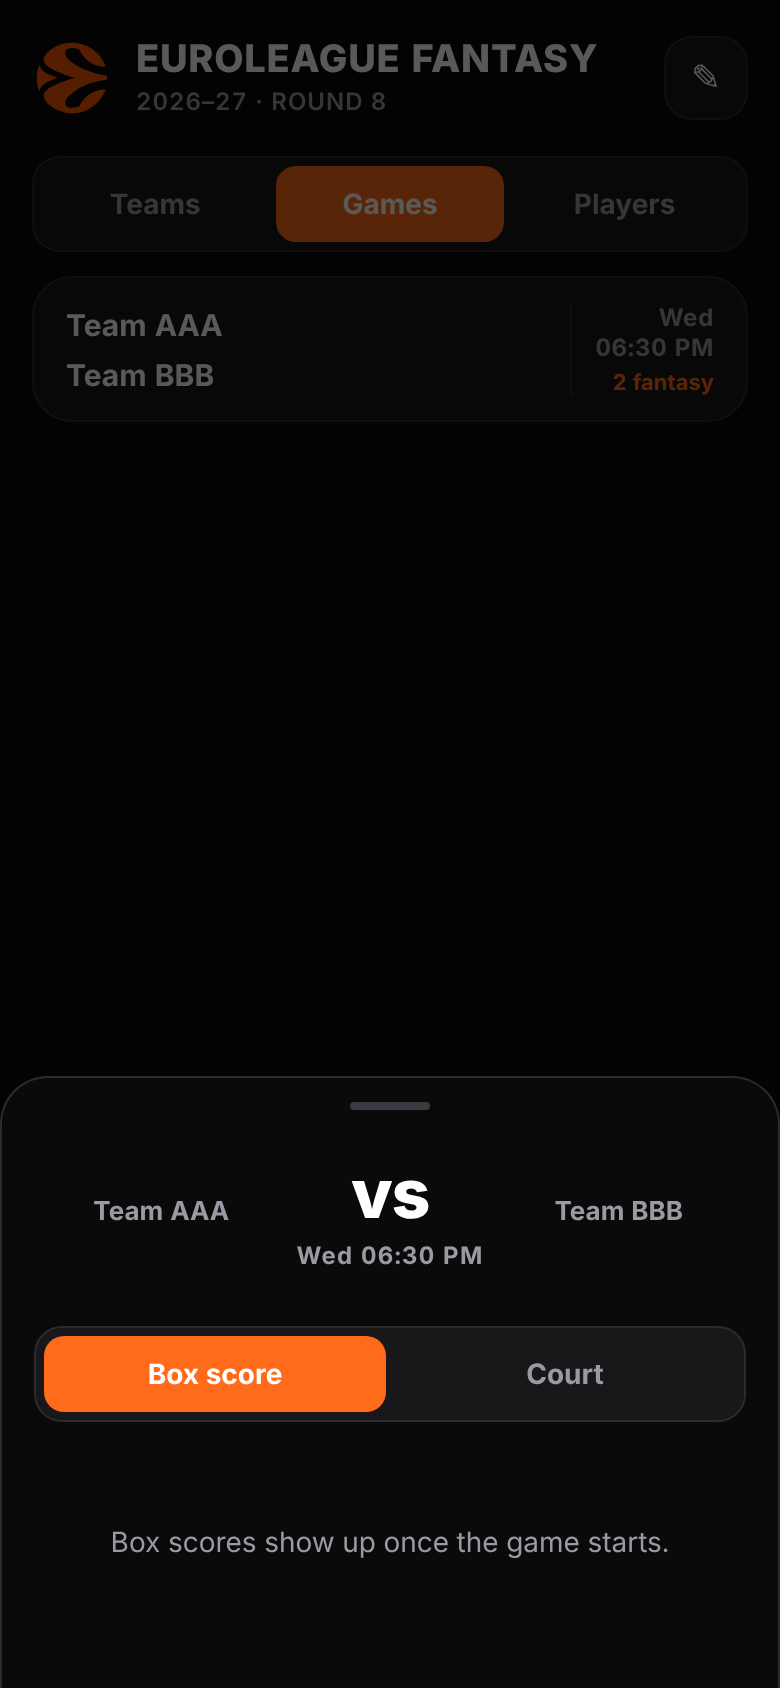
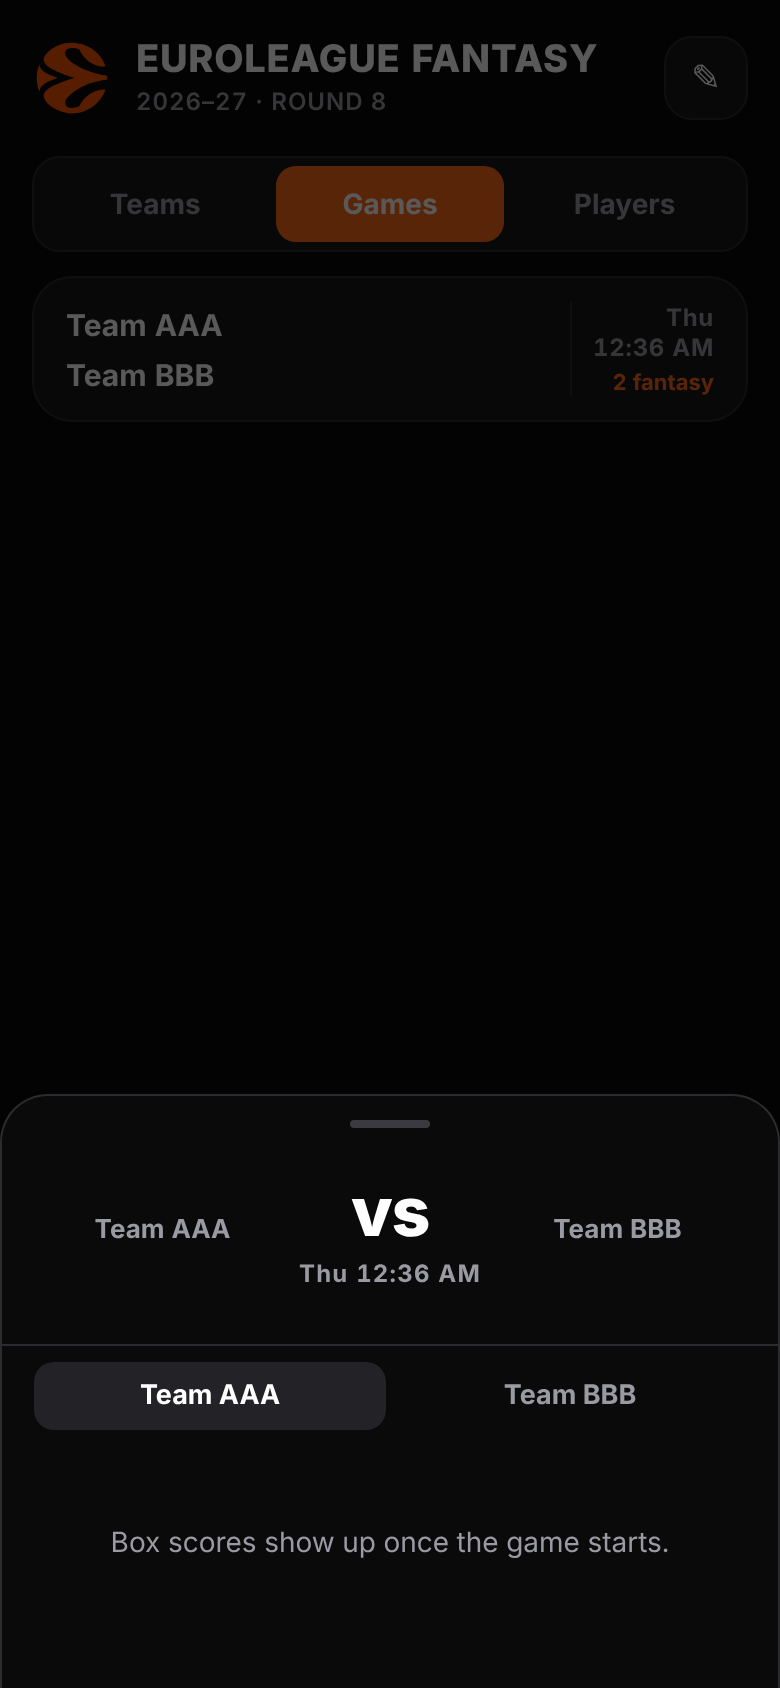
Feedback: 'Give Feedback' under the watch team opens a sheet (field focused, keyboard up) with everyone's anonymous feedback below; /admin lets the admin mark items complete (password checked by the Worker, stored only as a salted PBKDF2 hash in D1). Also removes stray test screenshots from the repo
Claude-Session: https://claude.ai/code/session_01WCgTGHKt1oMupKVau6VETb

diff --git a/1-league.html b/1-league.html
@@ -121,6 +121,35 @@
   .watch{display:block;margin-top:10px;border-style:dashed;color:inherit;text-decoration:none}
   .watch .rank{color:var(--muted);display:grid;place-items:center}
   .watch .score{font-size:18px;color:var(--muted)}
+  .fb-btn{width:100%;text-align:left;font:inherit;color:inherit;cursor:pointer;padding:0;border-style:solid}
+  /* feedback sheet */
+  #fbWrap .scrim{position:fixed;inset:0;background:#000000A6;opacity:0;pointer-events:none;transition:.2s;z-index:10}
+  #fbWrap .sheet{position:fixed;left:50%;bottom:0;transform:translate(-50%,100%);width:100%;max-width:480px;background:var(--bg);border:1px solid var(--line);border-bottom:0;
+         border-radius:24px 24px 0 0;display:flex;flex-direction:column;height:calc(100vh - env(safe-area-inset-top) - 16px);height:calc(100dvh - env(safe-area-inset-top) - 16px);
+         transition:transform .25s ease,visibility .25s;visibility:hidden;z-index:11;overflow:hidden}
+  #fbWrap.open .scrim{opacity:1;pointer-events:auto}
+  #fbWrap.open .sheet{transform:translate(-50%,0);visibility:visible;transition:transform .25s ease,visibility 0s}   /* visible at once so the field can take focus in the same tap */
+  #fbWrap .sheet.dragging{transition:none}
+  #fbWrap .grab{flex:none;height:28px;display:grid;place-items:center;cursor:grab;touch-action:none}
+  #fbWrap .grab::before{content:"";width:40px;height:4px;background:#3A3A40;border-radius:4px}
+  #fbWrap .sh-head{flex:none;padding:0 16px 14px;border-bottom:1px solid var(--line);touch-action:none}
+  #fbWrap .sh-head b{display:block;font-size:20px;font-weight:800}
+  #fbWrap .sh-head small{display:block;color:var(--muted);font-size:12.5px;margin-top:2px}
+  #fbWrap .fb-form{margin-top:12px}
+  #fbWrap textarea{display:block;width:100%;min-height:96px;max-height:200px;resize:none;border:1.5px solid var(--line);border-radius:14px;background:var(--card);color:#fff;
+         font:400 16px/1.4 Inter,system-ui,sans-serif;padding:12px 14px;outline:none}
+  #fbWrap textarea:focus{border-color:var(--orange)}
+  #fbWrap .fb-row{display:flex;align-items:center;justify-content:space-between;gap:10px;margin-top:8px}
+  #fbWrap .fb-row small{margin:0;color:var(--dim)}
+  #fbWrap .fb-send{height:40px;padding:0 18px;border:0;border-radius:12px;background:var(--orange);color:#fff;font:700 14.5px Inter,system-ui,sans-serif;cursor:pointer}
+  #fbWrap .fb-send:disabled{opacity:.4;cursor:default}
+  #fbWrap .sh-body{flex:1 1 auto;min-height:0;overflow-y:auto;overscroll-behavior:contain;-webkit-overflow-scrolling:touch;padding:4px 16px calc(24px + env(safe-area-inset-bottom))}
+  #fbWrap .fb{padding:13px 2px;border-bottom:1px solid var(--line)}
+  #fbWrap .fb p{font-size:14.5px;line-height:1.45;white-space:pre-wrap;overflow-wrap:anywhere}
+  #fbWrap .fb small{display:flex;align-items:center;gap:8px;margin-top:5px;font-size:12px;color:var(--dim)}
+  #fbWrap .fb .ok{font-weight:800;font-size:10.5px;letter-spacing:.06em;color:var(--win);background:#123B2A;border-radius:6px;padding:2px 6px}
+  #fbWrap .fb.done p{color:var(--muted);text-decoration:line-through;text-decoration-color:#FFFFFF40}
+  #fbWrap .fb-empty{color:var(--muted);text-align:center;padding:36px 10px;font-size:14px}
   .sec-t{font-size:12px;font-weight:800;letter-spacing:.14em;color:var(--muted);margin:26px 4px 10px}
   .base-input{width:104px;height:42px;border:1.5px solid var(--line);border-radius:12px;background:var(--card-2);color:#fff;
               font:800 18px Inter,system-ui,sans-serif;padding:0 12px;text-align:right;flex:none}
@@ -176,6 +205,14 @@ document.addEventListener("touchmove", e => { if (e.touches.length > 1) e.preven
       <div class="score" id="watchVal"><span class="chev">›</span></div>
     </div>
   </a>
+  <!-- feedback: anonymous notes from everyone; the admin marks them complete on /admin -->
+  <button class="list watch fb-btn" id="fbBtn" type="button">
+    <div class="row">
+      <div class="rank"><svg width="18" height="18" viewBox="0 0 24 24" fill="none" stroke="currentColor" stroke-width="2" stroke-linecap="round" stroke-linejoin="round"><path d="M21 15a2 2 0 0 1-2 2H7l-4 4V5a2 2 0 0 1 2-2h14a2 2 0 0 1 2 2z"/></svg></div>
+      <div class="who"><b>Give Feedback</b><small id="fbSub">Ideas, bugs, wishes · seen by everyone</small></div>
+      <div class="score"><span class="chev">›</span></div>
+    </div>
+  </button>
   </div>
 
   <!-- Games: this round's games (Game Center); tap one to open it -->
@@ -200,6 +237,20 @@ document.addEventListener("touchmove", e => { if (e.touches.length > 1) e.preven
   </div>
 </div>
 
+<div id="fbWrap">
+  <div class="scrim" data-fbclose></div>
+  <div class="sheet" role="dialog" aria-label="Give feedback">
+    <div class="grab" aria-hidden="true"></div>
+    <div class="sh-head">
+      <b>Feedback</b><small>Anonymous · everyone sees the list</small>
+      <form class="fb-form" id="fbForm">
+        <textarea id="fbText" maxlength="1000" placeholder="What should be better, fixed or added?" aria-label="Your feedback"></textarea>
+        <div class="fb-row"><small id="fbNote"></small><button class="fb-send" id="fbSend" type="submit" disabled>Send</button></div>
+      </form>
+    </div>
+    <div class="sh-body" id="fbList"></div>
+  </div>
+</div>
 <script src="assets/demo.js"></script>
 <script src="assets/sync.js"></script>
 <script src="assets/data.js"></script>
@@ -471,6 +522,56 @@ function openPlayer(code){
 $("#topTeam").addEventListener("change", e => { store.set("elf.topClub", e.target.value); e.target.blur(); renderTop(); });   // let go of focus so the next tap opens it again (iPhone)
 $("#topList").addEventListener("click", e => { const r = e.target.closest("[data-code]"); if (r) openPlayer(r.dataset.code); });
 $("#topList").addEventListener("keydown", e => { const r = e.target.closest("[data-code]"); if (r && (e.key === "Enter" || e.key === " ")){ e.preventDefault(); openPlayer(r.dataset.code); } });
+
+/* ───────── feedback sheet: write at the top (keyboard opens right away), everyone's past feedback below ───────── */
+const fbWrap = $("#fbWrap"), fbText = $("#fbText"), fbSend = $("#fbSend");
+let fbItems = null;
+const fbAgo = t => { const m = Math.round((Date.now() - t) / 60e3); return m < 1 ? "just now" : m < 60 ? `${m} min ago` : m < 48 * 60 ? `${Math.round(m / 60)} h ago` : new Date(t).toLocaleDateString("en-GB", {day: "numeric", month: "short", year: "numeric"}); };
+function renderFb(){
+  const l = $("#fbList");
+  if (!fbItems){ l.innerHTML = `<div class="fb-empty">Loading…</div>`; return; }
+  l.innerHTML = fbItems.length ? fbItems.map(f => `<div class="fb${f.done ? " done" : ""}"><p>${esc(f.text)}</p>
+      <small>${f.done ? `<span class="ok">COMPLETED</span>` : ""}${esc(fbAgo(f.at))}</small></div>`).join("")
+    : `<div class="fb-empty">No feedback yet — be the first.</div>`;
+}
+async function loadFb(){
+  try{ const r = await fetch("/api/feedback", {cache: "no-store"}); if (r.ok){ fbItems = (await r.json()).items || []; renderFb(); return; } }catch{}
+  if (!fbItems) $("#fbList").innerHTML = `<div class="fb-empty">Couldn't load feedback right now.</div>`;
+}
+function openFb(){
+  fbWrap.classList.add("open");
+  void fbWrap.offsetHeight;                         // apply "open" now…
+  fbText.focus({preventScroll: true});              // in the same tap, so the iPhone keyboard comes up
+  $("#fbList").scrollTop = 0; renderFb(); loadFb();
+}
+function closeFb(){ fbText.blur(); fbWrap.classList.remove("open"); }
+$("#fbBtn").addEventListener("click", openFb);
+fbWrap.querySelector("[data-fbclose]").onclick = closeFb;
+document.addEventListener("keydown", e => { if (e.key === "Escape" && fbWrap.classList.contains("open")) closeFb(); });
+fbText.addEventListener("input", () => { fbSend.disabled = !fbText.value.trim(); $("#fbNote").textContent = fbText.value.length > 800 ? `${1000 - fbText.value.length} left` : ""; });
+$("#fbForm").addEventListener("submit", async e => {
+  e.preventDefault();
+  const text = fbText.value.trim(); if (!text) return;
+  fbSend.disabled = true; $("#fbNote").textContent = "Sending…";
+  try{
+    const r = await fetch("/api/feedback", {method: "POST", headers: {"content-type": "application/json"}, body: JSON.stringify({text})});
+    if (!r.ok) throw 0;
+    const {item} = await r.json();
+    fbItems = [item, ...(fbItems || [])]; renderFb();
+    fbText.value = ""; $("#fbNote").textContent = "Thanks! Sent."; fbText.blur();
+  }catch{ $("#fbNote").textContent = "Couldn't send — try again."; fbSend.disabled = false; }
+});
+(function(){                                         // drag the grab bar down to close; swipe down on the list once it's at the top
+  const sh = fbWrap.querySelector(".sheet"), h = fbWrap.querySelector(".grab");
+  let y0 = 0, dy = 0, t0 = 0, id = null;
+  const end = () => { if (id == null) return; id = null; sh.classList.remove("dragging");
+    const fast = dy > 30 && dy / Math.max(1, Date.now() - t0) > 0.5; sh.style.transform = "";
+    if (dy > Math.min(140, sh.offsetHeight * 0.25) || fast) closeFb(); };
+  h.addEventListener("pointerdown", e => { id = e.pointerId; y0 = e.clientY; dy = 0; t0 = Date.now(); sh.classList.add("dragging"); h.setPointerCapture(id); });
+  h.addEventListener("pointermove", e => { if (e.pointerId !== id) return; dy = Math.max(0, e.clientY - y0); sh.style.transform = `translate(-50%, ${dy}px)`; });
+  h.addEventListener("pointerup", end); h.addEventListener("pointercancel", end);
+  SheetDrag.attach(sh, closeFb);
+})();
 
 /* ───────── refresh loop ───────── */
 function relevantGames(){

diff --git a/admin.html b/admin.html
@@ -1,0 +1,114 @@
+<!doctype html>
+<html lang="en">
+<head>
+<meta charset="utf-8">
+<meta name="viewport" content="width=device-width, initial-scale=1, maximum-scale=1, user-scalable=no, viewport-fit=cover">
+<meta name="robots" content="noindex, nofollow">
+<meta name="theme-color" content="#0A0A0B">
+<meta name="apple-mobile-web-app-capable" content="yes">
+<meta name="apple-mobile-web-app-status-bar-style" content="black-translucent">
+<link rel="apple-touch-icon" href="/assets/icon-180.png">
+<title>Feedback admin · EL Fantasy</title>
+<link rel="preconnect" href="https://fonts.googleapis.com">
+<link href="https://fonts.googleapis.com/css2?family=Inter:wght@400;500;600;700;800&display=swap" rel="stylesheet">
+<!-- Admin only: mark feedback complete. Not linked from the app; actions need the admin password (checked by the Worker). -->
+<style>
+  :root{--bg:#0A0A0B;--card:#18181B;--card-2:#232327;--line:#2B2B30;--muted:#9A9AA3;--dim:#5E5E66;--orange:#FF6B1A;--win:#3DDC84}
+  *{box-sizing:border-box;margin:0;padding:0;-webkit-tap-highlight-color:transparent}
+  html{touch-action:manipulation;-webkit-text-size-adjust:100%}
+  body{background:var(--bg);color:#fff;font:400 15px Inter,system-ui,sans-serif;min-height:100vh}
+  .wrap{max-width:480px;margin:0 auto;padding:calc(18px + env(safe-area-inset-top)) 16px calc(28px + env(safe-area-inset-bottom))}
+  header{display:flex;align-items:center;gap:12px;margin-bottom:16px}
+  header a{color:var(--muted);text-decoration:none;font-size:22px;width:36px;height:36px;display:grid;place-items:center;border-radius:12px;background:var(--card);border:1px solid var(--line)}
+  header h1{font-size:20px;font-weight:800;flex:1}
+  header button{border:0;background:none;color:var(--dim);font:600 13px Inter,system-ui,sans-serif;cursor:pointer}
+  .seg{display:flex;gap:4px;padding:4px;background:var(--card);border:1px solid var(--line);border-radius:14px;margin-bottom:12px}
+  .seg button{flex:1;height:36px;border:0;border-radius:10px;background:transparent;color:var(--muted);font:700 14px Inter,system-ui,sans-serif;cursor:pointer}
+  .seg button.on{background:var(--orange);color:#fff}
+  .list{background:var(--card);border:1px solid var(--line);border-radius:20px;overflow:hidden}
+  .fb{display:flex;gap:12px;align-items:flex-start;padding:14px 16px;border-top:1px solid var(--line)}
+  .fb:first-child{border-top:0}
+  .fb .t{flex:1;min-width:0}
+  .fb p{font-size:14.5px;line-height:1.45;white-space:pre-wrap;overflow-wrap:anywhere}
+  .fb small{display:block;margin-top:5px;font-size:12px;color:var(--dim)}
+  .fb.done p{color:var(--muted);text-decoration:line-through;text-decoration-color:#FFFFFF40}
+  .fb button{flex:none;height:34px;padding:0 12px;border-radius:10px;border:1px solid var(--line);background:var(--card-2);color:#fff;font:700 13px Inter,system-ui,sans-serif;cursor:pointer}
+  .fb button.mark{background:var(--win);border-color:var(--win);color:#06240F}
+  .fb button:disabled{opacity:.5}
+  .empty{padding:30px 16px;text-align:center;color:var(--muted)}
+  .login{background:var(--card);border:1px solid var(--line);border-radius:20px;padding:18px 16px}
+  .login p{color:var(--muted);font-size:13.5px;margin-bottom:12px}
+  .login input{width:100%;height:46px;border:1.5px solid var(--line);border-radius:12px;background:var(--card-2);color:#fff;font:500 16px Inter,system-ui,sans-serif;padding:0 14px;outline:none}
+  .login input:focus{border-color:var(--orange)}
+  .login button{width:100%;height:46px;margin-top:10px;border:0;border-radius:12px;background:var(--orange);color:#fff;font:700 15px Inter,system-ui,sans-serif;cursor:pointer}
+  .login .err{color:#FF5A4E;font-size:13px;margin-top:10px;min-height:18px}
+</style>
+<script>
+document.addEventListener("gesturestart", e => e.preventDefault(), {passive: false});
+</script>
+</head>
+<body>
+<div class="wrap">
+  <header><a href="/1-league" aria-label="Back to the app">‹</a><h1>Feedback admin</h1><button id="out" hidden>Log out</button></header>
+  <form class="login" id="login" hidden>
+    <p>Admin password — this phone remembers it after the first time.</p>
+    <input id="pw" type="password" autocomplete="current-password" placeholder="Password" aria-label="Password">
+    <button type="submit">Open</button>
+    <div class="err" id="err"></div>
+  </form>
+  <div id="main" hidden>
+    <div class="seg" id="seg"><button data-f="open" class="on">Open</button><button data-f="done">Completed</button><button data-f="all">All</button></div>
+    <div class="list" id="list"><div class="empty">Loading…</div></div>
+  </div>
+</div>
+<script>
+const $ = s => document.querySelector(s);
+const esc = s => String(s ?? "").replace(/[&<>"]/g, c => ({"&":"&amp;","<":"&lt;",">":"&gt;",'"':"&quot;"}[c]));
+const KEY = "elf.adminPw";
+const getPw = () => { try{ return localStorage.getItem(KEY) || ""; }catch{ return ""; } };
+const setPw = v => { try{ v ? localStorage.setItem(KEY, v) : localStorage.removeItem(KEY); }catch{} };
+let pw = getPw(), items = [], filter = "open";
+const when = t => new Date(t).toLocaleString("en-GB", {day: "numeric", month: "short", year: "numeric", hour: "2-digit", minute: "2-digit"});
+
+async function login(p){
+  const r = await fetch("/api/feedback/login", {method: "POST", headers: {"x-admin": p}});
+  return r.ok;
+}
+async function load(){
+  const r = await fetch("/api/feedback", {cache: "no-store"});
+  items = r.ok ? (await r.json()).items || [] : [];
+  render();
+}
+function render(){
+  document.querySelectorAll("#seg [data-f]").forEach(b => b.classList.toggle("on", b.dataset.f === filter));
+  const list = items.filter(f => filter === "all" || (filter === "done") === f.done);
+  $("#list").innerHTML = list.length ? list.map(f => `<div class="fb${f.done ? " done" : ""}">
+      <div class="t"><p>${esc(f.text)}</p><small>${esc(when(f.at))}${f.done && f.doneAt ? ` · completed ${esc(when(f.doneAt))}` : ""}</small></div>
+      <button data-id="${f.id}" data-done="${f.done ? 0 : 1}" class="${f.done ? "" : "mark"}">${f.done ? "Reopen" : "Complete"}</button></div>`).join("")
+    : `<div class="empty">${filter === "open" ? "Nothing open — all done." : filter === "done" ? "Nothing completed yet." : "No feedback yet."}</div>`;
+}
+function show(ok){
+  $("#login").hidden = ok; $("#main").hidden = !ok; $("#out").hidden = !ok;
+  if (ok) load(); else setTimeout(() => $("#pw").focus(), 50);
+}
+$("#login").addEventListener("submit", async e => {
+  e.preventDefault();
+  const p = $("#pw").value; if (!p) return;
+  $("#err").textContent = "";
+  if (await login(p)){ pw = p; setPw(p); $("#pw").value = ""; show(true); }
+  else $("#err").textContent = "Wrong password.";
+});
+$("#out").onclick = () => { pw = ""; setPw(""); show(false); };
+$("#seg").addEventListener("click", e => { const b = e.target.closest("[data-f]"); if (b){ filter = b.dataset.f; render(); } });
+$("#list").addEventListener("click", async e => {
+  const b = e.target.closest("button[data-id]"); if (!b) return;
+  b.disabled = true;
+  const r = await fetch("/api/feedback/done", {method: "POST", headers: {"content-type": "application/json", "x-admin": pw}, body: JSON.stringify({id: +b.dataset.id, done: b.dataset.done === "1"})});
+  if (r.status === 401){ pw = ""; setPw(""); show(false); $("#err").textContent = "Please log in again."; return; }
+  if (r.ok){ const f = items.find(x => x.id === +b.dataset.id); if (f){ f.done = b.dataset.done === "1"; f.doneAt = f.done ? Date.now() : null; } render(); }
+  else b.disabled = false;
+});
+(async () => { show(pw ? await login(pw).catch(() => false) : false); })();
+</script>
+</body>
+</html>

diff --git a/worker/feedback.js b/worker/feedback.js
@@ -1,0 +1,73 @@
+// Feedback: anyone can leave a note (anonymous); everyone sees the list; only the admin can mark items complete.
+//   GET  /api/feedback                 → {items: [{id, text, at, done, doneAt}]}   newest first
+//   POST /api/feedback        {text}   → add one (1–1000 characters)
+//   POST /api/feedback/done   {id, done}   header x-admin: <password>   → mark complete / reopen
+//   POST /api/feedback/login           header x-admin: <password>   → {ok} (the admin page checks the password)
+//   POST /api/feedback/setup  {password}   → sets the admin password, only while none is set yet
+// The admin password is never stored: only a random salt and a PBKDF2 hash of it, in the D1 kv table (not in the repo).
+const NO_CACHE = { "cache-control": "no-store" };
+const json = (d, status = 200) => new Response(JSON.stringify(d), { status, headers: { "content-type": "application/json", ...NO_CACHE } });
+
+let ready = false;
+async function setup(DB) {
+  if (ready) return;
+  await DB.batch([
+    DB.prepare("CREATE TABLE IF NOT EXISTS feedback (id INTEGER PRIMARY KEY AUTOINCREMENT, text TEXT NOT NULL, at INTEGER NOT NULL, done INTEGER NOT NULL DEFAULT 0, done_at INTEGER)"),
+    DB.prepare("CREATE TABLE IF NOT EXISTS kv (k TEXT PRIMARY KEY, v TEXT NOT NULL)"),
+  ]);
+  ready = true;
+}
+
+const hex = buf => [...new Uint8Array(buf)].map(b => b.toString(16).padStart(2, "0")).join("");
+async function hashPw(pw, salt) {
+  const key = await crypto.subtle.importKey("raw", new TextEncoder().encode(pw), "PBKDF2", false, ["deriveBits"]);
+  const bits = await crypto.subtle.deriveBits({ name: "PBKDF2", hash: "SHA-256", salt: new TextEncoder().encode(salt), iterations: 100000 }, key, 256);
+  return hex(bits);
+}
+async function isAdmin(request, env) {
+  const pw = request.headers.get("x-admin") || "";
+  if (!pw) return false;
+  const row = await env.DB.prepare("SELECT v FROM kv WHERE k = 'admin'").first();
+  if (!row) return false;
+  const { salt, hash } = JSON.parse(row.v);
+  const h = await hashPw(pw, salt);
+  let diff = h.length ^ hash.length;                              // compare without stopping early
+  for (let i = 0; i < Math.min(h.length, hash.length); i++) diff |= h.charCodeAt(i) ^ hash.charCodeAt(i);
+  return diff === 0;
+}
+
+export async function handleFeedback(request, env, path) {
+  if (!env.DB) return json({ error: "D1 database not bound as DB" }, 500);
+  await setup(env.DB);
+  const DB = env.DB;
+  if (path === "/api/feedback" && request.method === "GET") {
+    const r = await DB.prepare("SELECT id, text, at, done, done_at FROM feedback ORDER BY at DESC LIMIT 500").all();
+    return json({ items: (r.results || []).map(x => ({ id: x.id, text: x.text, at: x.at, done: !!x.done, doneAt: x.done_at || null })) });
+  }
+  if (request.method !== "POST") return json({ error: "method not allowed" }, 405);
+  let body = {};
+  try { body = await request.json(); } catch {}
+  if (path === "/api/feedback") {
+    const text = String(body.text || "").replace(/\r\n?/g, "\n").trim().slice(0, 1000);
+    if (!text) return json({ error: "empty" }, 400);
+    const at = Date.now();
+    const r = await DB.prepare("INSERT INTO feedback (text, at) VALUES (?, ?)").bind(text, at).run();
+    return json({ ok: true, item: { id: r.meta?.last_row_id, text, at, done: false, doneAt: null } });
+  }
+  if (path === "/api/feedback/setup") {
+    const pw = String(body.password || "");
+    if (pw.length < 4) return json({ error: "password too short" }, 400);
+    const salt = hex(crypto.getRandomValues(new Uint8Array(16)));
+    const r = await DB.prepare("INSERT OR IGNORE INTO kv (k, v) VALUES ('admin', ?)").bind(JSON.stringify({ salt, hash: await hashPw(pw, salt) })).run();
+    return r.meta?.changes ? json({ ok: true }) : json({ error: "already set" }, 409);
+  }
+  if (!(await isAdmin(request, env))) return json({ error: "wrong password" }, 401);
+  if (path === "/api/feedback/login") return json({ ok: true });
+  if (path === "/api/feedback/done") {
+    const id = Number(body.id), done = !!body.done;
+    if (!Number.isInteger(id)) return json({ error: "bad id" }, 400);
+    await DB.prepare("UPDATE feedback SET done = ?, done_at = ? WHERE id = ?").bind(done ? 1 : 0, done ? Date.now() : null, id).run();
+    return json({ ok: true });
+  }
+  return json({ error: "not found" }, 404);
+}

diff --git a/worker/index.js b/worker/index.js
@@ -3,12 +3,14 @@
 //   /api/state   shared league data (D1)
 //   /api/round   "Start Round X" votes (rounds.js)
 //   /api/news    latest headlines about one player from the chosen portals (news.js)
+//   /api/feedback  anonymous feedback list; the admin page marks items complete (feedback.js)
 //   /el-api/*    → https://api-live.euroleague.net/*   (players, schedule)
 //   /el-live/*   → https://live.euroleague.net/api/*   (live box scores, play-by-play, game clock)
 // Euroleague's servers don't reliably allow browser calls from other sites, so the Worker fetches for the browser.
 import { getState, postState } from "./state.js";
 import { postRound, scheduledCheck } from "./rounds.js";
 import { getNews } from "./news.js";
+import { handleFeedback } from "./feedback.js";
 
 // Euroleague rate-limits bursts, so answers are kept and shared by all phones:
 //   finished game box score / play-by-play → stored in D1 for good (never changes)
@@ -69,6 +71,7 @@ export default {
     }
     if (url.pathname === "/api/round" && request.method === "POST") return postRound(request, env);
     if (url.pathname === "/api/news" && request.method === "GET") return getNews(request, env, ctx);
+    if (url.pathname === "/api/feedback" || url.pathname.startsWith("/api/feedback/")) return handleFeedback(request, env, url.pathname);
     if (request.method === "GET" && url.pathname.startsWith("/el-api/")) return forward(url, "/el-api/", "https://api-live.euroleague.net/", env, ctx);
     if (request.method === "GET" && url.pathname.startsWith("/el-live/")) return forward(url, "/el-live/", "https://live.euroleague.net/api/", env, ctx);
     return env.ASSETS.fetch(request);
